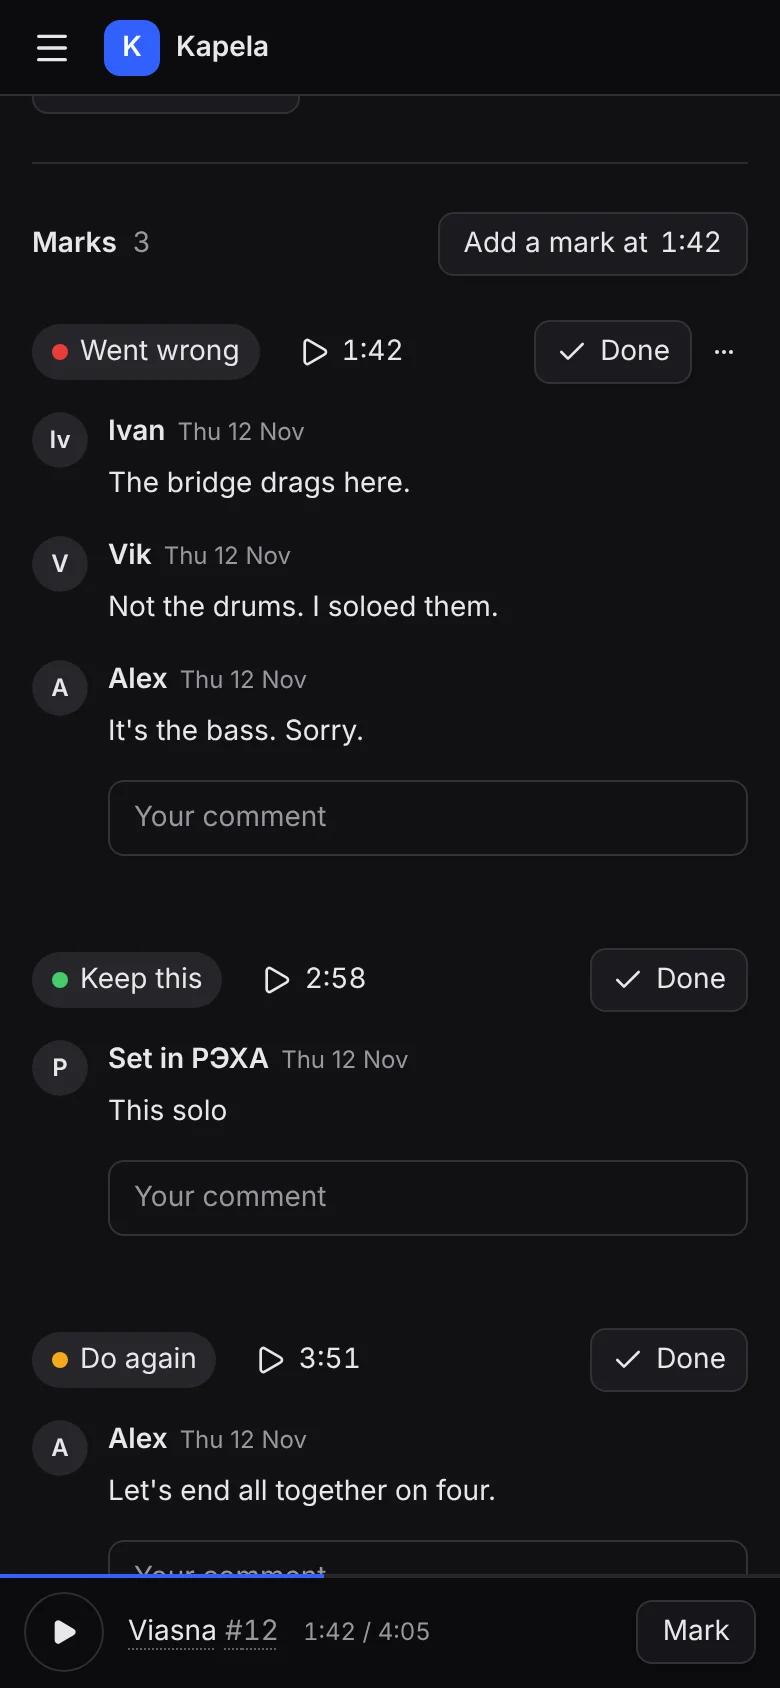
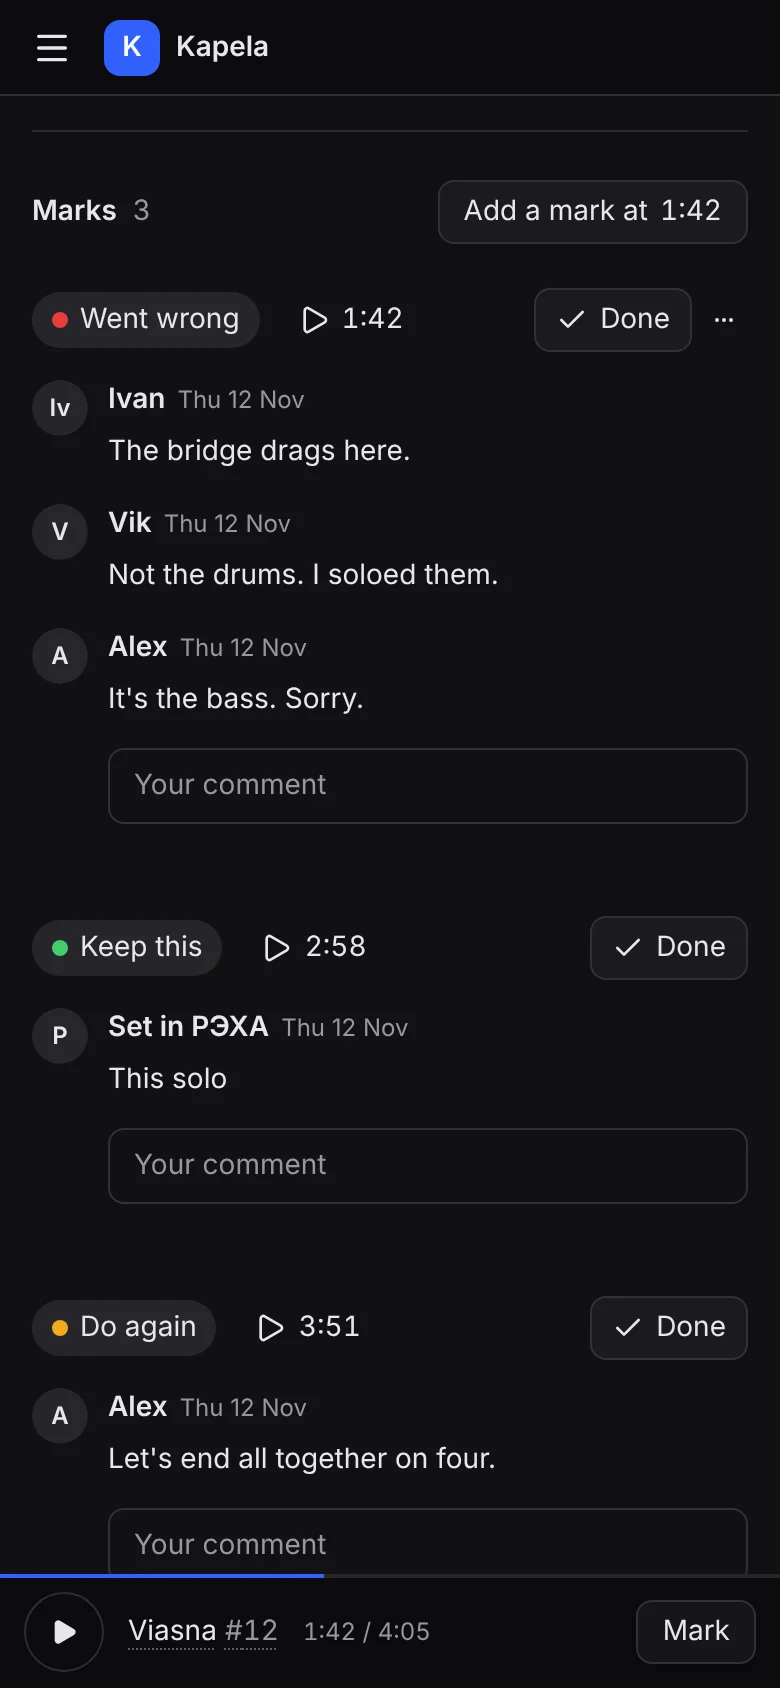
Site: the mark picture without the cut-off levels button
The scroll leaves 48 px under the bar, not 64, so the bottom of РЭХА's
levels button no longer peeks in above the line over Marks.

diff --git a/service/pictures/site.spec.ts b/service/pictures/site.spec.ts
@@ -32,8 +32,8 @@ const scrollTo = (heading: string) => async (page: Page) => {
   await page.getByRole("heading", { name: heading, exact: true }).evaluate((el) => {
     el.scrollIntoView({ block: "start" })
     // Whichever scrolls, the page or its main part, makes room for the bar.
-    el.closest("main")?.scrollBy(0, -64)
-    window.scrollBy(0, -64)
+    el.closest("main")?.scrollBy(0, -48)
+    window.scrollBy(0, -48)
   })
 }
 
